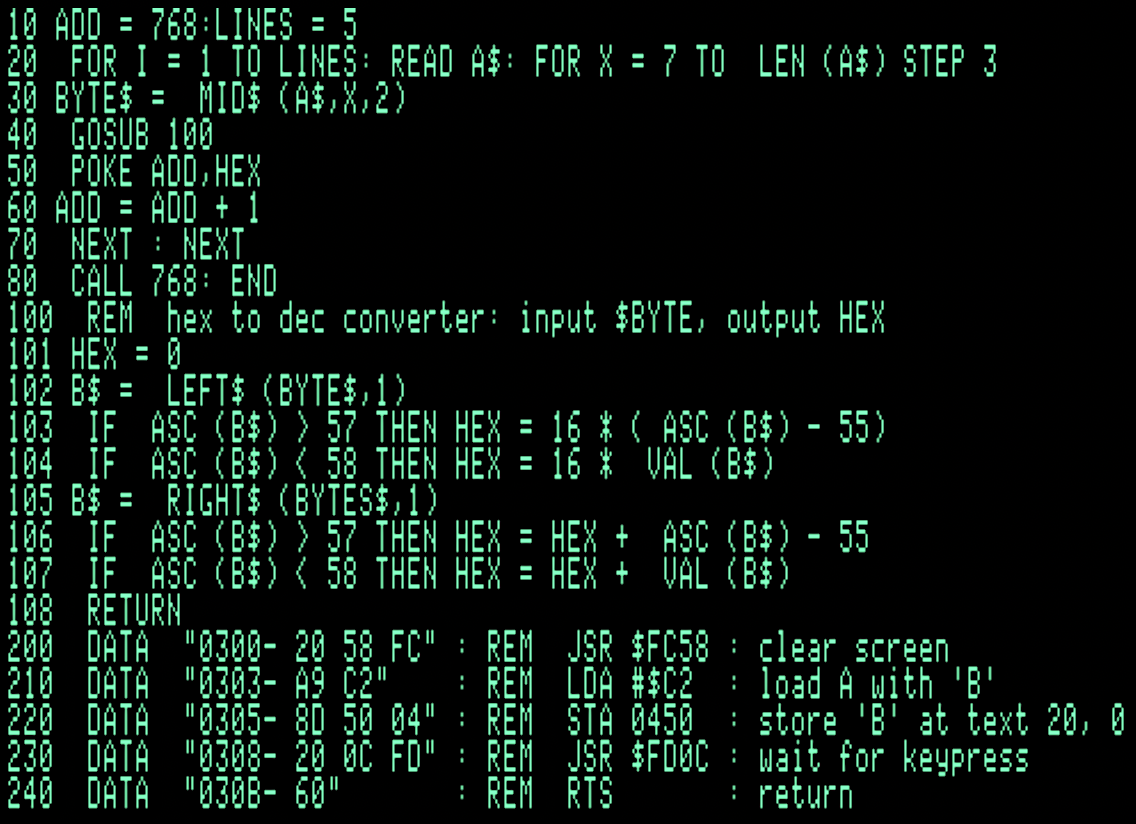
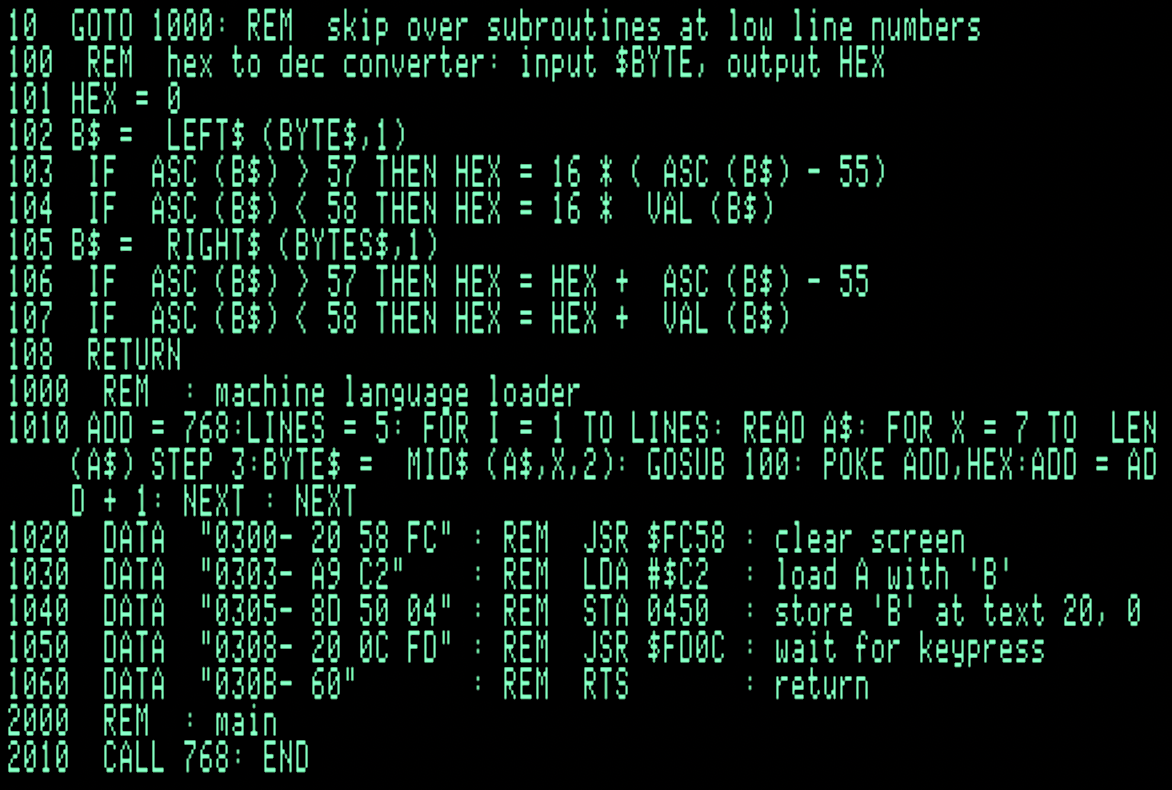
up

Changed region(s): [[0.0, 0.0, 1.0, 1.0], [0.7086, 0.1823, 0.7702, 0.243]]

diff --git a/aaa.md b/aaa.md
@@ -11,14 +11,7 @@ Applesoft and Assembly that allows annotation.
 + There is a hex to dec converter subroutine at 100
 
 ```
-10 ADD = 768 : LINES = 5
-20 FOR I = 1 TO LINES : READ A$ : FOR X = 7 TO LEN(A$) STEP 3
-30 BYTE$ = MID$(A$,X,2)
-40 GOSUB 100
-50 POKE ADD, HEX
-60 ADD = ADD + 1
-70 NEXT : NEXT
-80 CALL 768 : END
+10 GOTO 1000 : REM skip over subroutines at low line numbers
 
 100 REM hex to dec converter: input $BYTE, output HEX
 101 HEX = 0
@@ -30,11 +23,16 @@ Applesoft and Assembly that allows annotation.
 107 IF ASC(B$) < 58 THEN HEX = HEX + VAL(B$)
 108 RETURN
 
-200 DATA "0300- 20 58 FC" : REM JSR $FC58 : clear screen
-210 DATA "0303- A9 C2"    : REM LDA #$C2  : load A with 'B'
-220 DATA "0305- 8D 50 04" : REM STA 0450  : store 'B' at text 20, 0
-230 DATA "0308- 20 0C FD" : REM JSR $FD0C : wait for keypress
-240 DATA "030B- 60"       : REM RTS       : return
+1000 REM : machine language loader
+1010 ADD = 768 : LINES = 5 : FOR I = 1 TO LINES : READ A$ : FOR X = 7 TO LEN(A$) STEP 3 : BYTE$ = MID$(A$,X,2) : GOSUB 100 : POKE ADD, HEX : ADD = ADD + 1 : NEXT : NEXT
+1020 DATA "0300- 20 58 FC" : REM JSR $FC58 : clear screen
+1030 DATA "0303- A9 C2"    : REM LDA #$C2  : load A with 'B'
+1040 DATA "0305- 8D 50 04" : REM STA 0450  : store 'B' at text 20, 0
+1050 DATA "0308- 20 0C FD" : REM JSR $FD0C : wait for keypress
+1060 DATA "030B- 60"       : REM RTS       : return
+
+2000 REM : main
+2010 CALL 768 : END
 ```
 
 ![80 Column](aaa-80col.png)

diff --git a/LIFE.md b/LIFE.md
@@ -68,8 +68,22 @@ so slow with another 2 loops.
 
 ## BLIFE ##
 
-```
-
-
+The 8 directions
 
 ```
+123
+4 5
+678
+```
+
+The relative neighbor coordinates for 40-col text
+
+1. D6 255-41
+2. D7 255-40 
+3. D8 255-39
+4. FE 255-1
+5. 01 +1
+6. 27 +39
+7. 28 +40
+8. 29 +41
+
